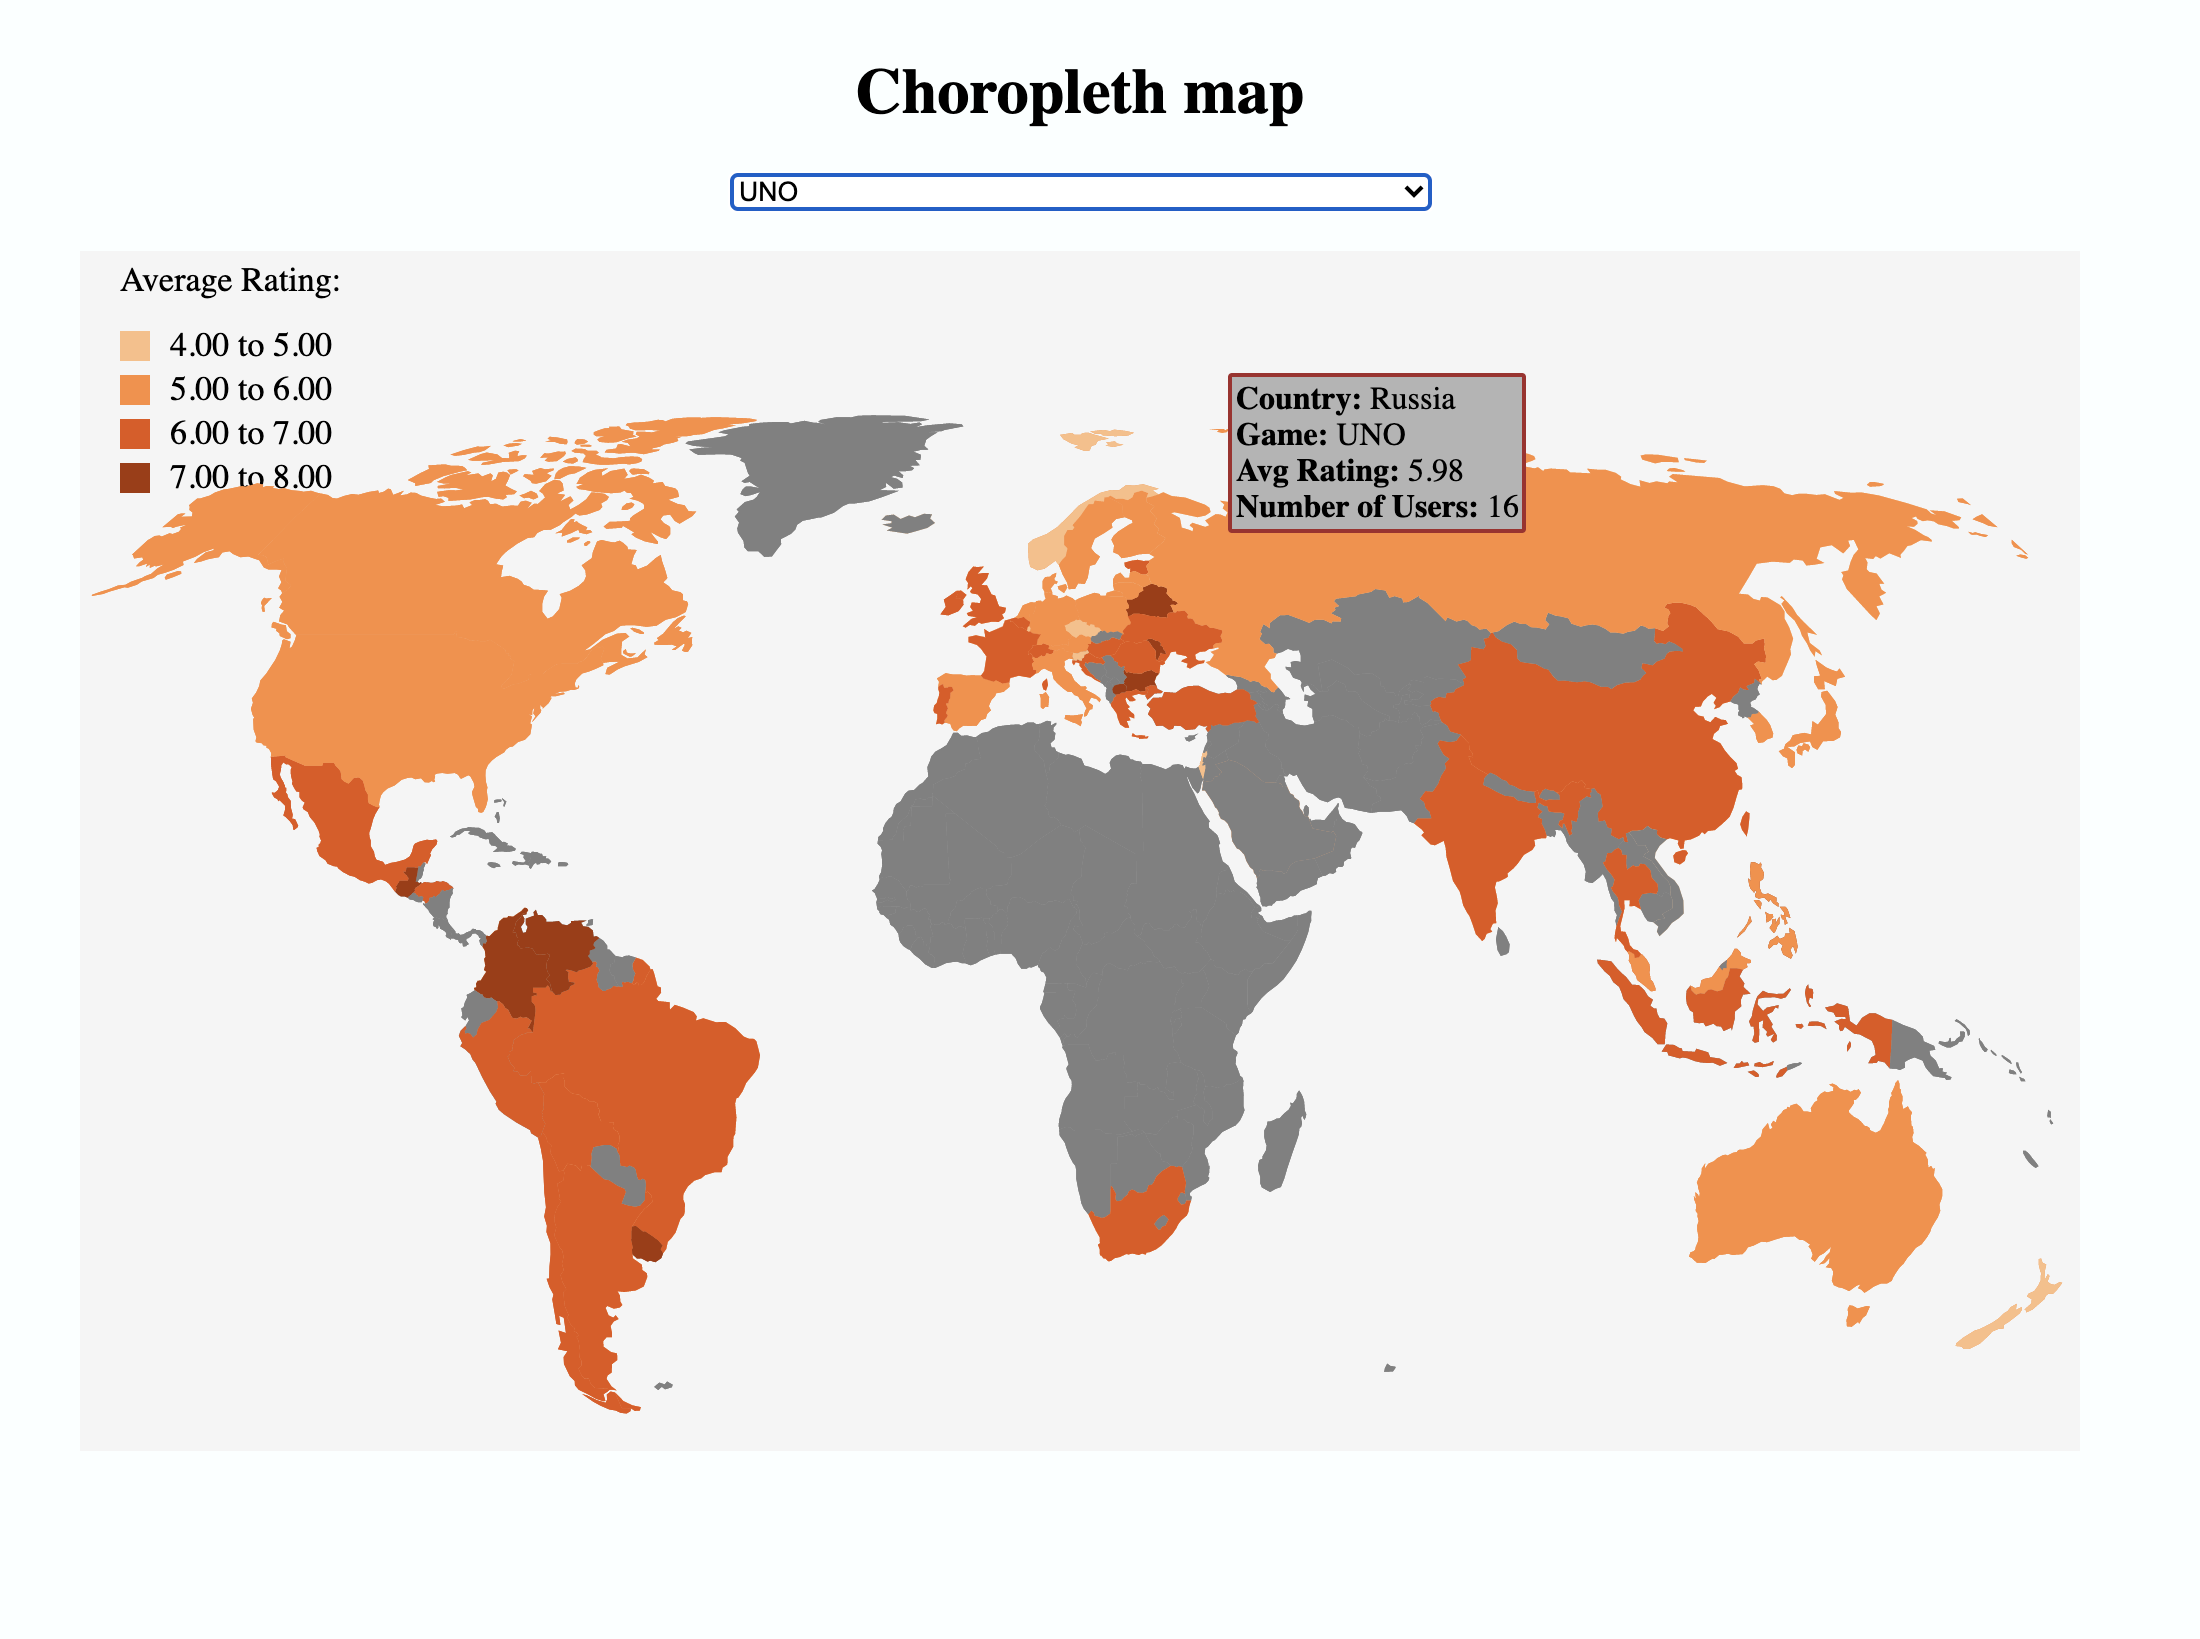
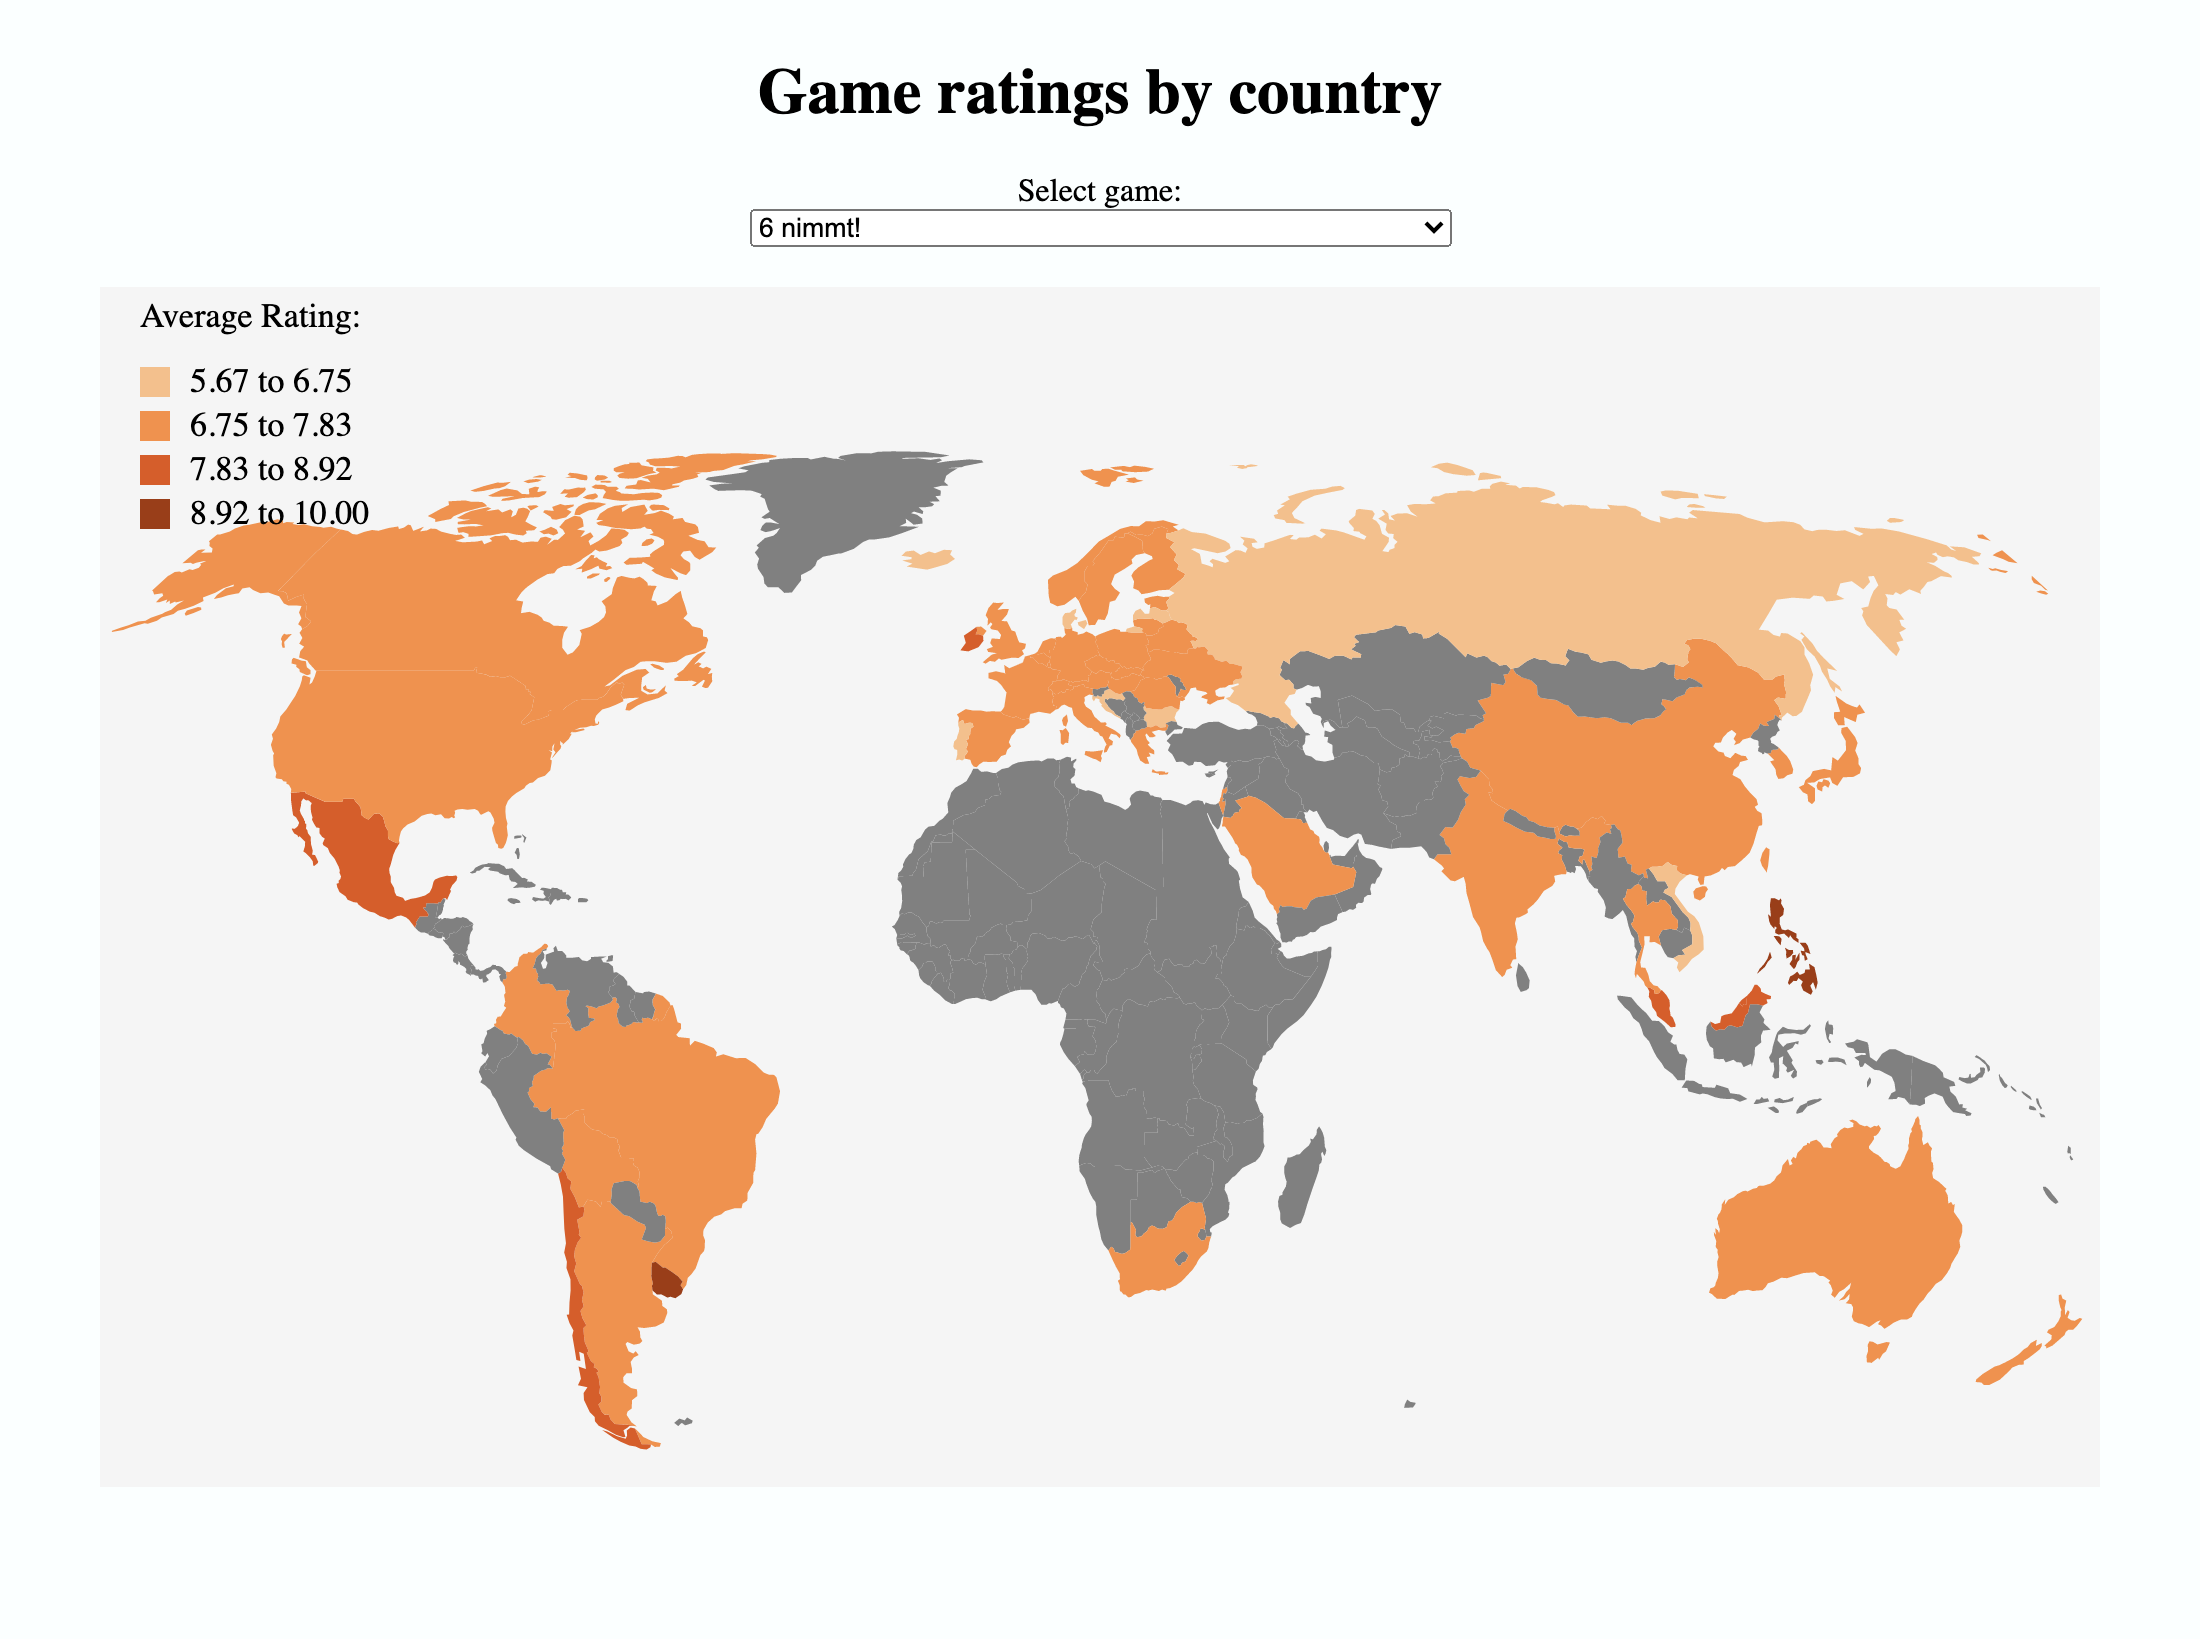
Minor change
Changed game ratings header and updated picture accordingly

Changed region(s): [[0.0309, 0.1556, 0.9582, 0.9024], [0.34, 0.0311, 0.6491, 0.1556], [0.4636, 0.6534, 0.4945, 0.7157]]

diff --git a/DataVisualizations/GameRatings/Q5/choropleth.html b/DataVisualizations/GameRatings/Q5/choropleth.html
@@ -49,10 +49,11 @@
 
 <body>
     <header class="center">
-        <h1>Choropleth map</h1>
+        <h1>Game ratings by country</h1>
     </header>
 
     <!-- Create dropdown element here. Options should be added after reading in game file, they should not be created here.-->
+    <label class="center">Select game:</label>
     <select id='dropdown' class="center">
     </select>
 
